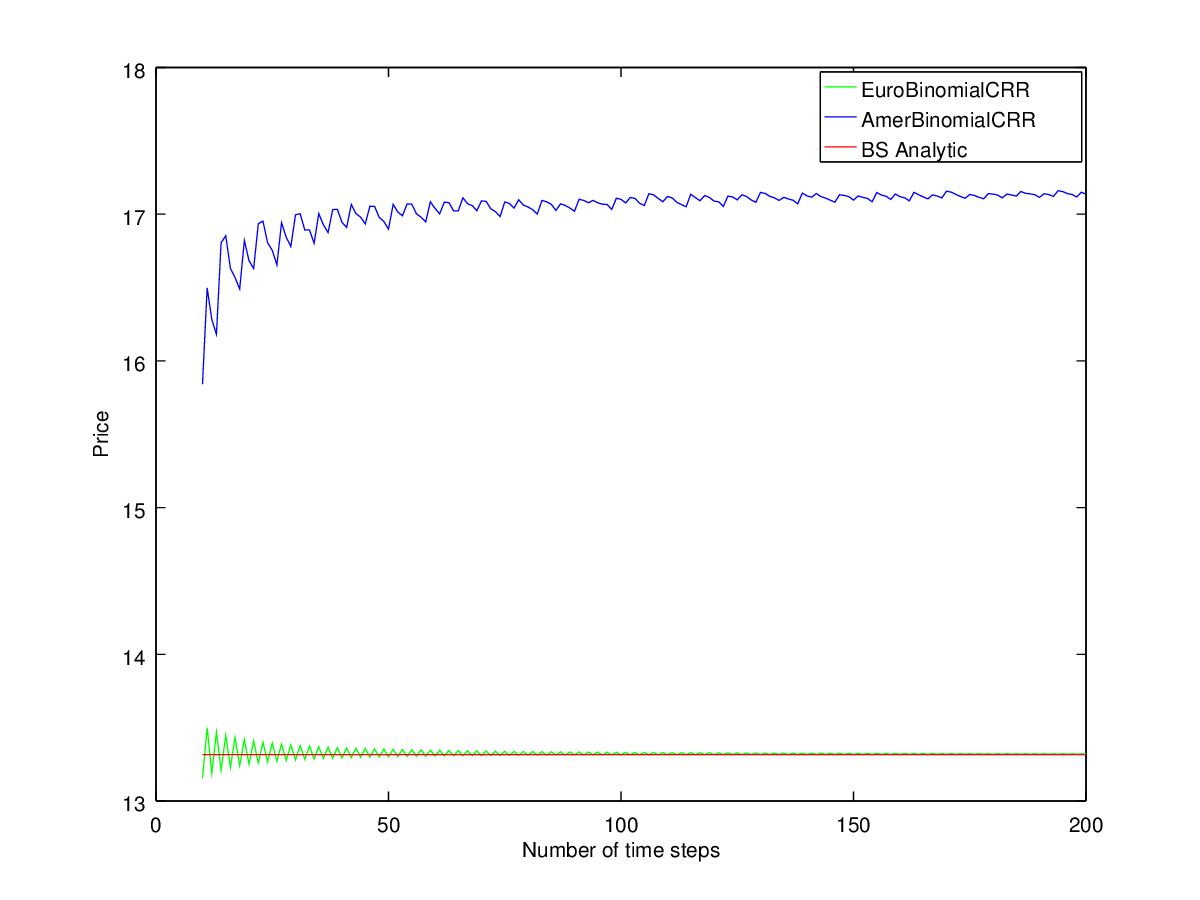
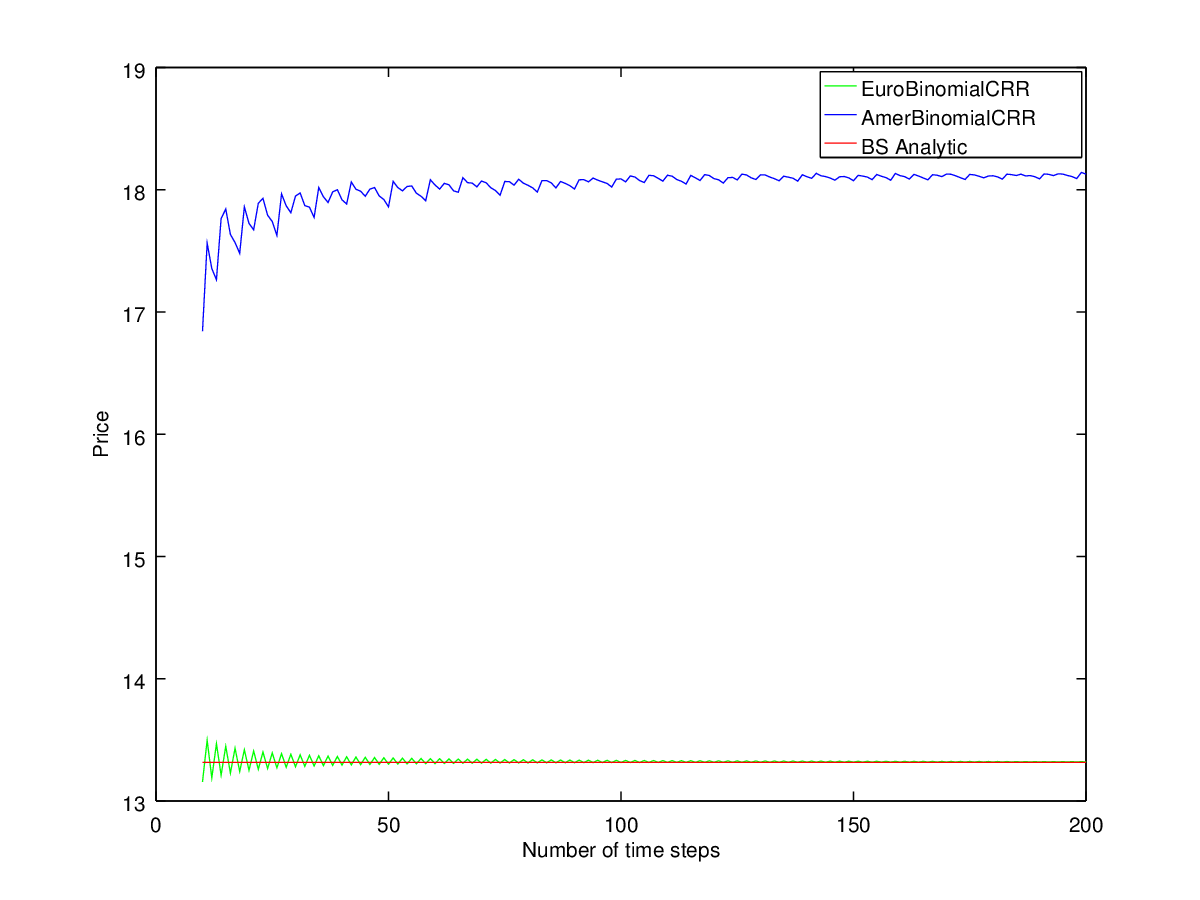
review all solutions

diff --git a/nusmfe2015/project/solution/project_solution.tex b/nusmfe2015/project/solution/project_solution.tex
@@ -97,7 +97,8 @@ function err = objFun(histmat, dt, tenors, sigmaL, sigmaS, rho, alpha)
   err = 0;
   for i = 1:length(tenors)
     for j = 1:length(tenors)
-      diff = modelCovar(sigmaL, sigmaS, rho, alpha, dt, tenors(i), tenors(j)) - histmat(i, j);
+      diff = modelCovar(sigmaL, sigmaS, rho, alpha, dt, tenors(i), tenors(j)) \
+            - histmat(i, j);
       err += diff * diff;
     endfor
   endfor
@@ -108,7 +109,8 @@ And the calibration main function:
 function [sigmaL, sigmaS, rho, alpha] = gab2Calib(hist, tenors)
   histmat = histCovar(hist, tenors)
   dt = 1/250;
-  f = @(params) objFun(histmat, dt, tenors, params(1), params(2), params(3), params(4));
+  f = @(params) objFun(histmat, dt, tenors, params(1), params(2), params(3), \
+  					   params(4));
   sigmaL_init = sqrt(histmat(length(tenors), length(tenors)) / dt)
   sigmaS_init = sqrt(histmat(1, 1) / dt)
   rho_init = histmat(1, length(tenors))  / dt / sigmaL_init / sigmaS_init
@@ -131,6 +133,11 @@ endfunction
 
 \paragraph{Pricing Asian Option using MM2}
 The payoff of arithmetic Asian call option is $(A - K)_+$ where $A = \frac{1}{n}\sum F(t_i, T_i)$.  
+Example:
+\begin{verbatim}
+	ti_s = [0.1, 0.2, 0.3];
+	Ti_s = [1, 1, 1];
+\end{verbatim}
 
 Under the assumption of log-normality, we can use the Black-Scholes formula:
 \begin{align*}
@@ -213,13 +220,17 @@ E[A^2] = \frac{1}{n^2}\sum_{i=1}^n \sum_{j=1}^n E[F(t_i, T_i) F(t_j, T_j)]
 \end{align*}
 
 \paragraph{MM2 Source code}
+\begin{small}
+
 \begin{verbatim}
-function pv = mm2Gab2AsianCall(sigmaL, sigmaS, rho, alpha, priceCurve, ti_s, Ti_s, K, rf, T)
+function pv = mm2Gab2AsianCall(sigmaL, sigmaS, rho, alpha, priceCurve, \ 
+							   ti_s, Ti_s, K, rf, T)
   m = sum(arrayfun(priceCurve, Ti_s)) / length(Ti_s)
   v = 0;
   for i = 1:length(Ti_s)
     for j = 1:length(Ti_s)
-      v += expectation (sigmaL, sigmaS, rho, alpha, priceCurve, ti_s(i), ti_s(j), Ti_s(i), Ti_s(j));
+      v += expectation (sigmaL, sigmaS, rho, alpha, priceCurve, \
+      		 		    ti_s(i), ti_s(j), Ti_s(i), Ti_s(j));
     endfor
   endfor
   v = v / length(Ti_s) / length(Ti_s);
@@ -231,15 +242,19 @@ endfunction
 
 function e = expectation (sigmaL, sigmaS, rho, alpha, priceCurve, ti, tj, Ti, Tj)
   t = min(ti, tj);
-  a = sigmaL*sigmaL * (t - (exp(-alpha * Ti) + exp(-alpha * Tj))/alpha * (exp(alpha * t) -1) + exp(-alpha *(Ti+Tj))/2/alpha * (exp(2*alpha * t) -1) );
-  b = sigmaS*sigmaS * exp(- alpha*(Ti + Tj)) / 2 / alpha * (exp(2*alpha * t) -1);
-  c = rho * sigmaL * sigmaS * (exp(-alpha*Tj)/alpha * (exp(alpha * t) -1) - exp(-alpha*(Ti+Tj)) / alpha /2 * (exp(2*alpha * t) -1) );
-  d = rho * sigmaL * sigmaS * (exp(-alpha*Ti)/alpha * (exp(alpha * t) -1) - exp(-alpha*(Ti+Tj)) / alpha /2 * (exp(2*alpha * t) -1) );
+  at = (exp(alpha * t) -1) / alpha;
+  at2 = (exp(2*alpha * t) -1) / 2 / alpha;
+  aTij = exp(-alpha *(Ti+Tj));
+  a = sigmaL*sigmaL * (t - (exp(-alpha * Ti) + exp(-alpha * Tj)) * at + aTij * at2 );
+  b = sigmaS*sigmaS * aTij * at2;
+  c = rho * sigmaL * sigmaS * (exp(-alpha*Tj) * at - aTij * at2 );
+  d = rho * sigmaL * sigmaS * (exp(-alpha*Ti) * at - aTij * at2 );
   e = a + b + c + d;
   e *= priceCurve(Ti) * priceCurve(Tj);
 endfunction 
 \end{verbatim}
 
+\end{small}
 \paragraph{Test case}
 \begin{verbatim}
 load("testData/tenors.mat")

diff --git a/nusmfe2015/example/mcengine/gab2.m b/nusmfe2015/example/mcengine/gab2.m
@@ -10,6 +10,16 @@ function recon = reconFun(alpha, rho, sigmaS, sigmaL, rnds, market, dt)
   recon = @(ti, Ti) reconst(market, alpha, rho, sigmaS, sigmaL, dx, dy, ti, Ti);
 endfunction 
 
+function obs = reconst(market, alpha, rho, sigmaS, sigmaL, dx, dy, ti, Ti)
+  dt = 1 / 250;
+  idx = ti / dt;
+  x = sum(dx(1:idx));
+  y = sum(dy(1:idx));
+  ret = -0.5 * varianceLn(ti, Ti, alpha, rho, sigmaS, sigmaL) + x + exp(-alpha*Ti)*y;
+  f0 = market.priceCurve(Ti);
+  obs = f0 * exp(ret);
+endfunction
+
 function [dx, dy] = diffuse( alpha, rho, sigmaS, sigmaL, rnds, dt)
   corr = [1, rho; rho, 1];
   cholC = chol(corr);
@@ -20,16 +30,6 @@ function [dx, dy] = diffuse( alpha, rho, sigmaS, sigmaL, rnds, dt)
     dx(i) = sigmaL * ws(1, i);
     dy(i) = (sigmaS * ws(2, i) - sigmaL * ws(1, i)) * exp(alpha * t);
   endfor
-endfunction
-
-function obs = reconst(market, alpha, rho, sigmaS, sigmaL, dx, dy, ti, Ti)
-  dt = 1 / 250;
-  idx = ti / dt;
-  x = sum(dx(1:idx));
-  y = sum(dy(1:idx));
-  ret = -0.5 * varianceLn(ti, Ti, alpha, rho, sigmaS, sigmaL) + x + exp(-alpha*Ti)*y;
-  f0 = market.priceCurve(Ti);
-  obs = f0 * exp(ret);
 endfunction
 
 function var = varianceLn(t, mat, alpha, rho, sigmaS, sigmaL)

diff --git a/nusmfe2015/assignment2/solution/assignment2_solution.tex b/nusmfe2015/assignment2/solution/assignment2_solution.tex
@@ -30,10 +30,10 @@ and print out \verb=cs= and $f'(x_0)$.
 The Taylor expansion
 \begin{align*}
 \begin{cases}
-b_1 f(x - h) & = b_1 [f(x) - f'(x)h + frac12 f''(x)h^2 - \frac16 f^{(3)}(x)h^3] \\
-b_2 f(x - \frac12 h) & = b_2 [f(x) - f'(x) \frac12 h + \frac12 f''(x) \frac14 h^2 - \frac16 f'''(x)\frac18 h^3] \\
-b_3 f(x + 1/2 h) & = b_3 [f(x) + f'(x) \frac12 h + \frac12 f''(x) \frac14 h^2 + \frac16 f^{(3)}(x) \frac18 h^3] \\
-b_4 f(x + h) & = b_4 [f(x) + f'(x)h + \frac12 f''(x)h^2 + \frac16 f'''(x)h^3]
+b_1 f(x - h) & = b_1 [f(x) - f'(x)h + \frac12 f''(x)h^2 - \frac16 f^{(3)}(x)h^3] \\
+b_2 f(x - \frac12 h) & = b_2 [f(x) - f'(x) \frac12 h + \frac12 f''(x) \frac14 h^2 - \frac16 f^{(3)}(x)\frac18 h^3] \\
+b_3 f(x + \frac12 h) & = b_3 [f(x) + f'(x) \frac12 h + \frac12 f''(x) \frac14 h^2 + \frac16 f^{(3)}(x) \frac18 h^3] \\
+b_4 f(x + h) & = b_4 [f(x) + f'(x)h + \frac12 f''(x)h^2 + \frac16 f^{(3)}(x)h^3]
 \end{cases}
 \end{align*}
 We would like the sum of the right hand sides to be equal to $f'(x)$, 
@@ -326,4 +326,8 @@ function p = lognpdf(S, v, r, T, si)
   endif
 endfunction
 \end{verbatim}
+
+\begin{center}
+\includegraphics[scale=0.7]{quadrature}
+\end{center}
 \end{document}

diff --git a/nusmfe2015/assignment3/solution/assigment3_solution.tex b/nusmfe2015/assignment3/solution/assigment3_solution.tex
@@ -114,7 +114,7 @@ function v = americanBinomialPricerD(spot, sigma, rf, T, N, payoff, div_ts, div_
   for k = 1 : length(div_rs)
       spotadj *= 1-div_rs(k);
   endfor
-
+  df = exp( -rf * dt );
   # terminal
   for i = 1 : (N+1)
       price(i) = payoff( spotadj * exp(2*(i-1)*u - N*u) );
@@ -149,10 +149,10 @@ function v = americanBinomialPricerD(spot, sigma, rf, T, N, payoff, div_ts, div_
         pS = max(pS, payoff(S * divadj));
       endif
 	    euro = price(j)*(1-p) + price((j+1))*(p);
-      price(j) = max(euro, pS);
+      price(j) = max(df*euro, pS);
     endfor
   endfor
-  v = exp(-rf*T) * price(1);
+  v = price(1);
 endfunction
 \end{verbatim}
 \end{small}
@@ -170,9 +170,9 @@ call = 13.315, Put = 6.0434, Straddle = 19.358
 \paragraph{d)} For the same test case in a) and time step \verb-N=100-, 
 price a American Call, American Put, American Straddle options with strike = 85. 
 Compare the three prices.
-\emph{For American payoff, Straddle < Call + Put}
+\emph{For American payoff, Straddle $<$ Call + Put}
 \begin{verbatim}
-call = 17.101, Put = 6.3302, Straddle = 21.991
+call = 18.089, Put = 6.4393, Straddle = 22.862
 \end{verbatim}
 
 

diff --git a/nusmfe2015/project/solution/mm2Gab2AsianCall.m b/nusmfe2015/project/solution/mm2Gab2AsianCall.m
@@ -15,10 +15,13 @@ endfunction
 
 function e = expectation (sigmaL, sigmaS, rho, alpha, priceCurve, ti, tj, Ti, Tj)
   t = min(ti, tj);
-  a = sigmaL*sigmaL * (t - (exp(-alpha * Ti) + exp(-alpha * Tj))/alpha * (exp(alpha * t) -1) + exp(-alpha *(Ti+Tj))/2/alpha * (exp(2*alpha * t) -1) );
-  b = sigmaS*sigmaS * exp(- alpha*(Ti + Tj)) / 2 / alpha * (exp(2*alpha * t) -1);
-  c = rho * sigmaL * sigmaS * (exp(-alpha*Tj)/alpha * (exp(alpha * t) -1) - exp(-alpha*(Ti+Tj)) / alpha /2 * (exp(2*alpha * t) -1) );
-  d = rho * sigmaL * sigmaS * (exp(-alpha*Ti)/alpha * (exp(alpha * t) -1) - exp(-alpha*(Ti+Tj)) / alpha /2 * (exp(2*alpha * t) -1) );
+  at = (exp(alpha * t) -1) / alpha;
+  at2 = (exp(2*alpha * t) -1) / 2 / alpha;
+  aTij = exp(-alpha *(Ti+Tj));
+  a = sigmaL*sigmaL * (t - (exp(-alpha * Ti) + exp(-alpha * Tj)) * at + aTij * at2 );
+  b = sigmaS*sigmaS * aTij * at2;
+  c = rho * sigmaL * sigmaS * (exp(-alpha*Tj) * at - aTij * at2 );
+  d = rho * sigmaL * sigmaS * (exp(-alpha*Ti) * at - aTij * at2 );
   e = a + b + c + d;
   e *= priceCurve(Ti) * priceCurve(Tj);
 endfunction 

diff --git a/nusmfe2015/example/mcengine/main.m b/nusmfe2015/example/mcengine/main.m
@@ -3,12 +3,12 @@ function main
   # construct the market
   tenors = [1/12, 2/12, 3/12, 6/12, 9/12, 1, 1.5, 2, 3, 5, 7, 10];
   p0 = [43, 45, 47, 49.05, 50.37, 51.36, 52.3, 53.51, 54.6, 55.7, 57.24, 57.95];
-  mkt = market(tenors, p0, 0.02);
+  mkt = market(tenors, p0, rf = 0.02);
   
   # construct the payoff
-  ti_s = [1, 1.1, 1.2, 1.3];  # observation dates
+  ti_s = [0.6, 0.7, 0.8, 0.9];  # observation dates
   Ti_s = [2, 2, 2, 2];
-  product = asianCall(ti_s, Ti_s, 50, 1.3);
+  product = asianCall(ti_s, Ti_s, K=50, T=1);
   
   # construct the model
   alpha = 0.5; rho = 0.8; sigmaS = 0.2; sigmaL = 0.05;
@@ -16,9 +16,9 @@ function main
   
   # mcprice
   npath = 256;
-  price = mcprice(mkt, model, product, npath)
+  priceAsian = mcprice(mkt, model, product, npath)
   
-  product = euroCall(1, 2, 50, 1);
-  price = mcprice(mkt, model, product, npath)
+  product = euroCall(ti=1, Ti=2, K=50, T=1);
+  priceCall = mcprice(mkt, model, product, npath)
 endfunction
 

diff --git a/nusmfe2015/assignment1/solution/assignment1_solution.tex b/nusmfe2015/assignment1/solution/assignment1_solution.tex
@@ -111,7 +111,6 @@ endfunction
 
 \begin{itemize}
 \item why to use a single array for \verb=prevQ=?
-\item Complexity? max n?
 \item All solutions?
 \end{itemize}
 
@@ -138,6 +137,8 @@ function myPi (n)
   semilogy([1:length(pi1)], abs(pi1 - pi), "-r;myPi1;", 
            [1:length(pi2)], abs(pi2 - pi), "-g;myPi2;",
            [1:length(pi3)], abs(pi3 - pi), "-b;myPi3;");
+  xlabel("nTerms");
+  ylabel("error");
 endfunction
 
 function pi = myPi1 (nTerm)
@@ -182,6 +183,10 @@ endfunction
 \item since the requirement is to plot the series, extending the series at each step is more efficient.
 \item plotting in log make the convergence clearer.
 \end{itemize}
+
+\begin{center}
+\includegraphics[scale=0.7]{pichart}
+\end{center}
 
 \subsection*{Assignment 1c. Decimal to Ternary conversion}
 Modify the example function \verb=decInt2BinInt(x, nbits)= given in the lecture to  

diff --git a/nusmfe2015/assignment3/solution/ex1.m b/nusmfe2015/assignment3/solution/ex1.m
@@ -11,7 +11,7 @@ function res=straddle(S,K)
   res=max(S-K,K-S);
 end 
 
-payoff=@(x)callPayoff(x,K);
+payoff=@(x)call(x,K);
 euroP=zeros(1,length(10:200));
 amerP=zeros(1,length(10:200));
 length(euroP)
@@ -37,13 +37,13 @@ plot([10:200],euroP,'g;EuroBinomialCRR;',
 xlabel('Number of time steps');
 ylabel('Price');
 
-f=@(x)callPayoff(x,85);
+f=@(x)call(x,85);
 europeanBinomialPricerD(spot, sigma, rf, T, 100, f, div_ts, div_rs)
 americanBinomialPricerD(spot, sigma, rf, T, 100, f, div_ts, div_rs)
-f=@(x)putPayoff(x,85);
+f=@(x)put(x,85);
 europeanBinomialPricerD(spot, sigma, rf, T, 100, f, div_ts, div_rs)
 americanBinomialPricerD(spot, sigma, rf, T, 100, f, div_ts, div_rs)
-f=@(x)straddlePayoff(x,85);
+f=@(x)straddle(x,85);
 europeanBinomialPricerD(spot, sigma, rf, T, 100, f, div_ts, div_rs)
 americanBinomialPricerD(spot, sigma, rf, T, 100, f, div_ts, div_rs)
 

diff --git a/nusmfe2015/assignment3/solution/americanBinomialPricerD.m b/nusmfe2015/assignment3/solution/americanBinomialPricerD.m
@@ -12,7 +12,7 @@ function v = americanBinomialPricerD(spot, sigma, rf, T, N, payoff, div_ts, div_
   for k = 1 : length(div_rs)
       spotadj *= 1-div_rs(k);
   endfor
-
+  df = exp( -rf * dt );
   # terminal
   for i = 1 : (N+1)
       price(i) = payoff( spotadj * exp(2*(i-1)*u - N*u) );
@@ -47,8 +47,8 @@ function v = americanBinomialPricerD(spot, sigma, rf, T, N, payoff, div_ts, div_
         pS = max(pS, payoff(S * divadj));
       endif
 	    euro = price(j)*(1-p) + price((j+1))*(p);
-      price(j) = max(euro, pS);
+      price(j) = max(df*euro, pS);
     endfor
   endfor
-  v = exp(-rf*T) * price(1);
+  v = price(1);
 endfunction

diff --git a/nusmfe2015/project/solution/test.m b/nusmfe2015/project/solution/test.m
@@ -8,7 +8,6 @@ Ti_s = [1, 1, 1];
 mm2Gab2AsianCall(sigmaL, sigmaS, rho, alpha, priceCurve, ti_s, Ti_s, 45, 0.01, 0.6)
 mm2Gab2AsianCall(sigmaL, sigmaS, rho, alpha, priceCurve, ti_s, Ti_s, 50, 0.01, 0.6)
 
-
 "degenerate case"
 mm2Gab2AsianCall(sigmaS, sigmaS, 1.0, 0.1, priceCurve, [1], [1], 50, 0.01, 1)
 

diff --git a/nusmfe2015/assignment1/solution/myPi.m b/nusmfe2015/assignment1/solution/myPi.m
@@ -5,6 +5,8 @@ function myPi (n)
   semilogy([1:length(pi1)], abs(pi1 - pi), "-r;myPi1;", 
            [1:length(pi2)], abs(pi2 - pi), "-g;myPi2;",
            [1:length(pi3)], abs(pi3 - pi), "-b;myPi3;");
+  xlabel("nTerms");
+  ylabel("error");
 endfunction
 
 function pi = myPi1 (nTerm)

diff --git a/nusmfe2015/project/solution/genHist.m b/nusmfe2015/project/solution/genHist.m
@@ -1,7 +1,7 @@
 function hist = genHist()
   tenors = [1/12, 2/12, 3/12, 6/12, 9/12, 1, 1.5, 2, 3, 5, 7, 10];
   p0 = [43, 45, 47, 49.05, 50.37, 51.36, 52.3, 53.51, 54.6, 55.7, 57.24, 57.95];
-  plot(tenors, p0);
+  # plot(tenors, p0);
   alpha = 0.5;
   rho = 0.8;
   sigmaS = 0.2;
